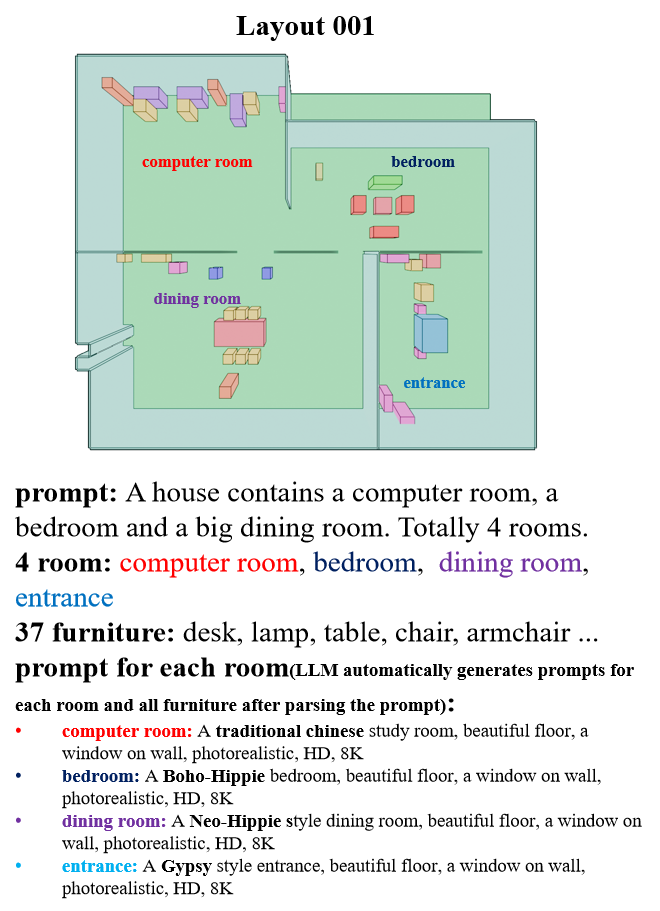
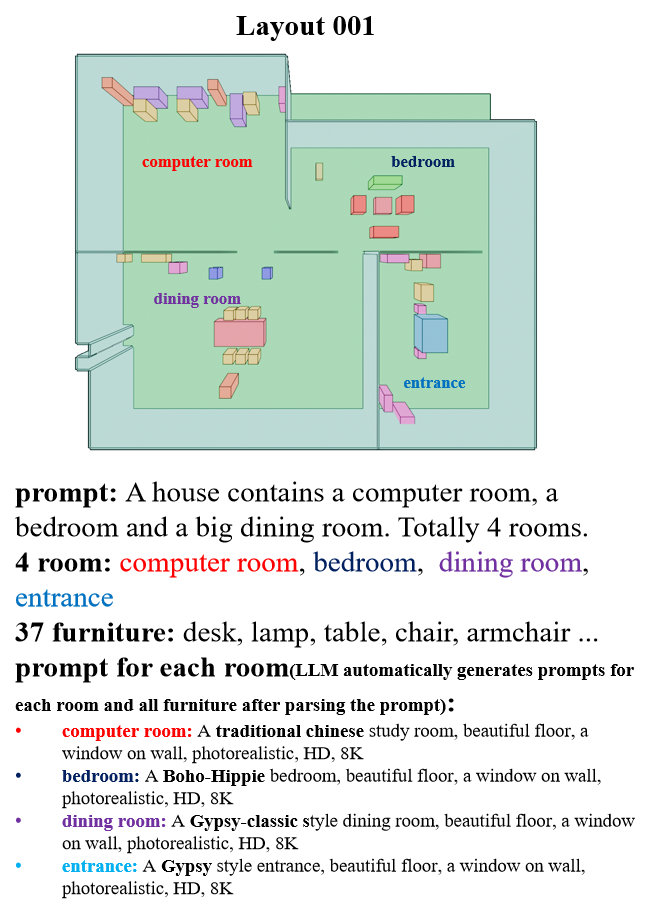
env editing

Changed region(s): [[0.0909, 0.8913, 0.9697, 0.9528]]

diff --git a/index.html b/index.html
@@ -514,60 +514,60 @@ normal-aware cross-attention decoder to predict RGB by cross-attending to the an
 <div class="columns is-centered">
 
 
-  <!-- bedroom style 1. -->
+  <!-- dining room style 1. -->
   <div class="column">
     <div class="content">
-      <h2 class="title is-3">bedroom style1</h2>
+      <h2 class="title is-3">dining room style1</h2>
       <p>
-        prompt: A Boho-Hippe style bedroom, beautiful floor, a window on wall, photorealistic, HD, 8K
+        prompt: A Gypsy-classic style dining room, beautiful floor, a window on wall, photorealistic, HD, 8K
       </p>
-      <video id="bedroom_style1" autoplay controls muted loop playsinline height="100%">
-        <source src="./static/env/bedroom1_001_rgb_v1.mp4" type="video/mp4">
+      <video id="dining_room_style1" autoplay controls muted loop playsinline height="100%">
+        <source src="./static/env/dining_room1_001_rgb_v1.mp4" type="video/mp4">
       </video>
     </div>
   </div>
-  <!--/ bedroom style 1. -->
-  <!-- bedroom style 2. -->
+  <!--/ dining room style 1. -->
+  <!-- dining room style 2. -->
   <div class="column">
     <div class="content">
-      <h2 class="title is-3">bedroom style2</h2>
+      <h2 class="title is-3">dining room style2</h2>
       <p>
-        prompt: A Bohemian style bedroom, beautiful floor, a window on wall, photorealistic, HD, 8K
+        prompt: A cubism art style dining room, beautiful floor, a window on wall, photorealistic, HD, 8K
       </p>
-      <video id="bedroom_style2" autoplay controls muted loop playsinline height="100%">
-        <source src="./static/env/bedroom1_001_rgb_v2.mp4" type="video/mp4">
+      <video id="dining_room_style2" autoplay controls muted loop playsinline height="100%">
+        <source src="./static/env/dining_room1_001_rgb_v2.mp4" type="video/mp4">
       </video>
     </div>
   </div>
-  <!--/ bedroom style 2. -->
+  <!--/ dining room style 2. -->
 
-  <!-- bedroom style 3. -->
+  <!-- dining room style 3. -->
   <div class="column">
     <div class="content">
       <h2 class="title is-3">bedroom style3</h2>
       <p>
-        prompt: A cubism art style bedroom, beautiful floor, a window on wall, photorealistic, HD, 8K
+        prompt: A Neo-hipple style dining room, beautiful floor, a window on wall, photorealistic, HD, 8K
       </p>
-      <video id="bedroom_style3" autoplay controls muted loop playsinline height="100%">
-        <source src="./static/env/bedroom1_001_rgb_v3.mp4" type="video/mp4">
+      <video id="dining_room_style3" autoplay controls muted loop playsinline height="100%">
+        <source src="./static/env/dining_room1_001_rgb_v3.mp4" type="video/mp4">
       </video>
     </div>
   </div>
-  <!--/ bedroom style 3. -->
+  <!--/ dining room style 3. -->
 
-  <!-- bedroom style 4. -->
+  <!-- dining room style 4. -->
   <div class="column">
     <div class="content">
-      <h2 class="title is-3">bedroom style1</h2>
+      <h2 class="title is-3">dining room style1</h2>
       <p>
-        prompt: A Modern Children bedroom, beautiful floor, a window on wall, photorealistic, HD, 8K
+        prompt: A Gypsy dining room, beautiful floor, a window on wall, photorealistic, HD, 8K
       </p>
-      <video id="bedroom_style4" autoplay controls muted loop playsinline height="100%">
-        <source src="./static/env/bedroom1_001_rgb_v4.mp4" type="video/mp4">
+      <video id="dining_room_style4" autoplay controls muted loop playsinline height="100%">
+        <source src="./static/env/dining_room1_001_rgb_v4.mp4" type="video/mp4">
       </video>
     </div>
   </div>
-  <!--/ bedroom style 4. -->
+  <!--/ dining room style 4. -->
 </div>
 
   </div>
